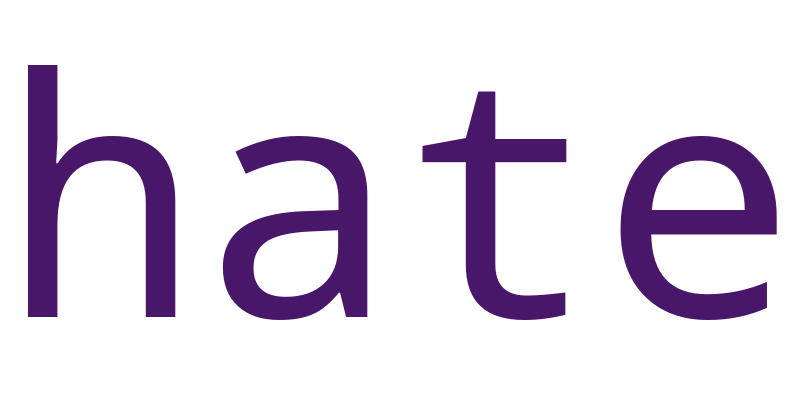
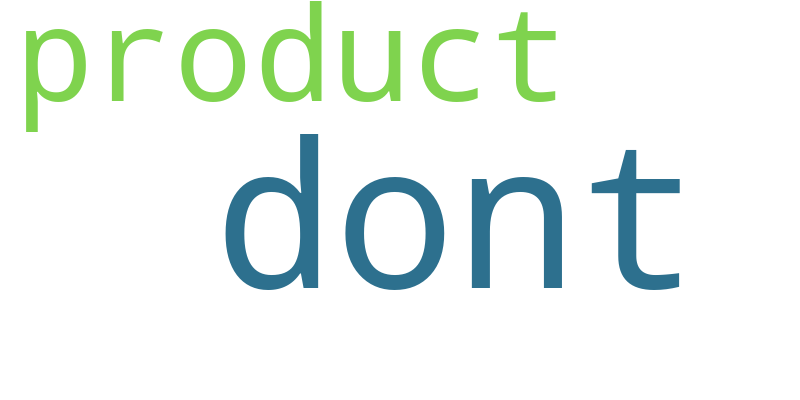
Updated full UI and project styling

Changed region(s): [[0.0312, 0.0, 0.7188, 0.81], [0.7188, 0.33, 0.9688, 0.81]]

diff --git a/templates/index.html b/templates/index.html
@@ -22,16 +22,23 @@
                     rgba(0,0,0,0.65),
                     rgba(0,0,0,0.65)
                 ),
+
                 url('https://images.unsplash.com/photo-1526379095098-d400fd0bf935?q=80&w=1974&auto=format&fit=crop');
 
             background-size: cover;
+
             background-position: center;
+
             background-attachment: fixed;
 
             color: white;
+
             text-align: center;
+
             min-height: 100vh;
+
             padding-top: 40px;
+
             padding-bottom: 40px;
         }
 
@@ -202,10 +209,19 @@
         <form action="/predict" method="POST">
 
             <textarea
+                id="reviewText"
                 name="text"
                 placeholder="Enter customer review here..."></textarea>
 
             <br><br>
+
+            <button
+                type="button"
+                onclick="startVoice()">
+
+                🎤 Start Voice Input
+
+            </button>
 
             <button type="submit">
 
@@ -345,6 +361,28 @@
         </a>
 
     </div>
+
+    <script>
+
+        function startVoice() {
+
+            var recognition =
+                new webkitSpeechRecognition();
+
+            recognition.lang = "en-US";
+
+            recognition.start();
+
+            recognition.onresult = function(event) {
+
+                document.getElementById(
+                    "reviewText"
+                ).value =
+                event.results[0][0].transcript;
+            };
+        }
+
+    </script>
 
 </body>
 